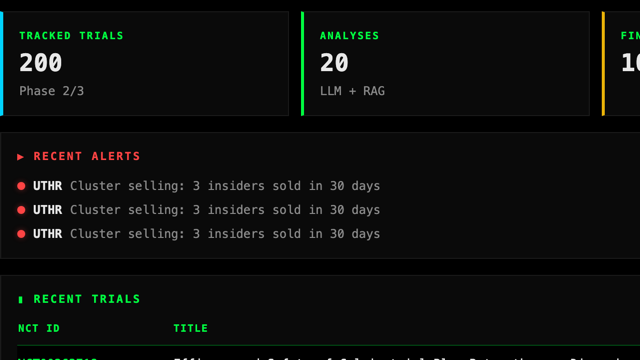
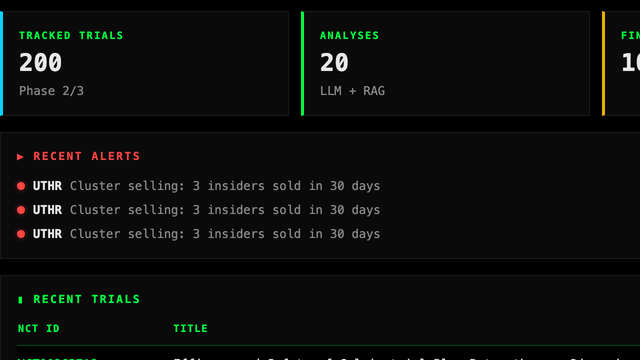
Add NBA Contract Value project card
Fifth card in the projects row, linking to the live dashboard. Preview is the
Leaderboard view rather than the default one: the landing view is a WebGL
scatter that headless Chromium renders as an empty "WebGL disabled" box, and
the table shows headshots, WAR, cap hit and surplus legibly at card size.

Reworks the SHOTS table in shots.sh to carry a per-shot viewport, output
format, and two JS hooks. The dashboard needs all four: 1680px wide (it clips
the surplus column at 1280), a click to reach the Leaderboard tab, and a
separate post-settle scroll because the table doesn't exist until that tab has
rendered. Captures now stage through a temp file inside the output directory —
browse refuses to write outside the project, and mktemp lands in /var/folders
on macOS.

Note the five-card row can't alternate two hues without a collision somewhere
in the loop; this puts it at the seam.

diff --git a/index.html b/index.html
@@ -263,6 +263,30 @@
                             </a>
                         </li>
 
+                        <!-- 5 · NBA Contract Value -->
+                        <li class="marquee__item">
+                            <a class="pcard" style="--accent: 258 90% 74%"
+                                href="https://nba-contract-analytics.vercel.app/" target="_blank"
+                                rel="noopener noreferrer" data-project-card data-project="NBA Contract Value">
+                                <span class="pcard__poster">
+                                    <!-- Leaderboard view of the live dashboard, captured at 2x.
+                                         Regenerate with: npm run shots -->
+                                    <img src="/assets/projects/nba-contract-value.jpg" alt="" width="640" height="360"
+                                        loading="lazy" decoding="async">
+                                </span>
+                                <span class="pcard__body">
+                                    <span class="pcard__meta">
+                                        <span class="pcard__tag">Data Viz</span>
+                                    </span>
+                                    <h3 class="pcard__title">NBA Contract Value</h3>
+                                    <p class="pcard__desc">Prices all 334 NBA contracts against the production they buy,
+                                        using a replacement-adjusted cost per win.</p>
+                                    <span class="pcard__cta">Open live site <span class="pcard__arrow"
+                                            aria-hidden="true">&rarr;</span></span>
+                                </span>
+                            </a>
+                        </li>
+
                     </ul>
                 </div>
             </div>
